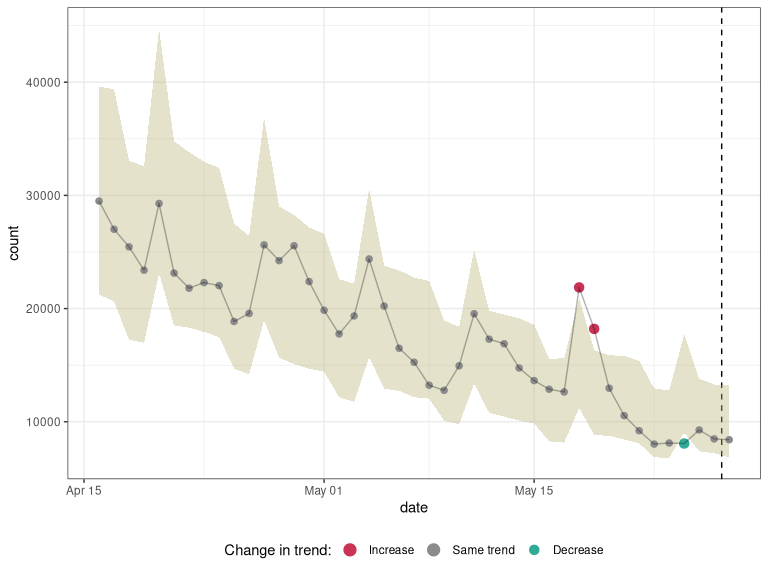
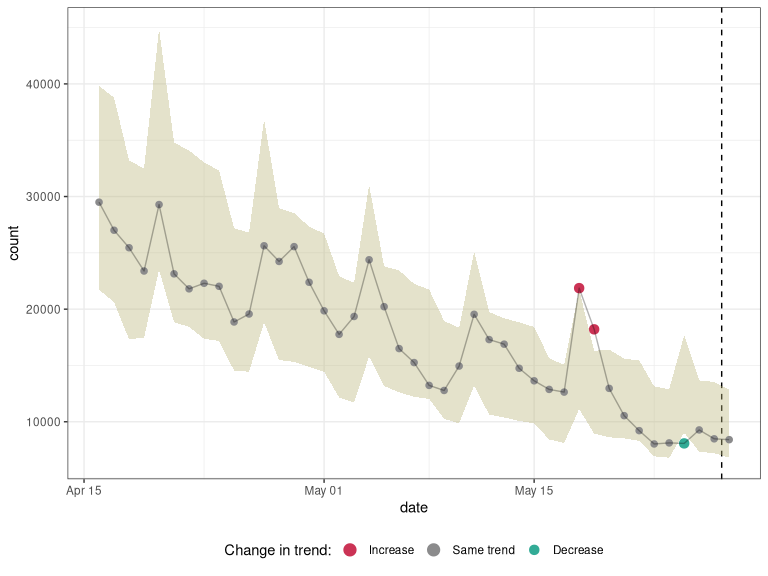
tidying and removing sanitize_models from asmodee

diff --git a/README.md b/README.md
@@ -163,8 +163,8 @@ res
 #>     }
 #>     result
 #> }
-#> <bytecode: 0x55ff9a9e76c8>
-#> <environment: 0x55ff9a108580>
+#> <bytecode: 0x5582cf070c08>
+#> <environment: 0x5582ce145ec0>
 #> 
 #> attr(,"class")
 #> [1] "trending_model_fit" "list"              
@@ -218,49 +218,49 @@ res
 #> 42 2020-05-27  70 rest_of_week  8486     TRUE 10038.393  9060.304 11122.07
 #> 43 2020-05-28  71 rest_of_week  8411    FALSE  9775.991  8795.879 10865.32
 #>    lower_pi upper_pi outlier classification
-#> 1     21256    39622   FALSE         normal
-#> 2     20620    39369   FALSE         normal
-#> 3     17250    33065   FALSE         normal
-#> 4     16983    32581   FALSE         normal
-#> 5     23108    44722   FALSE         normal
-#> 6     18512    34785   FALSE         normal
-#> 7     18318    33826   FALSE         normal
-#> 8     17932    32973   FALSE         normal
-#> 9     17485    32431   FALSE         normal
-#> 10    14700    27509   FALSE         normal
-#> 11    14183    26421   FALSE         normal
-#> 12    18966    36889   FALSE         normal
-#> 13    15668    29023   FALSE         normal
-#> 14    15094    28270   FALSE         normal
-#> 15    14683    27166   FALSE         normal
-#> 16    14417    26618   FALSE         normal
-#> 17    12166    22603   FALSE         normal
-#> 18    11753    22189   FALSE         normal
-#> 19    15732    30580   FALSE         normal
-#> 20    12921    23809   FALSE         normal
-#> 21    12729    23377   FALSE         normal
-#> 22    12170    22745   FALSE         normal
-#> 23    12045    22446   FALSE         normal
-#> 24    10094    18952   FALSE         normal
-#> 25     9776    18373   FALSE         normal
-#> 26    13358    25205   FALSE         normal
-#> 27    10806    19804   FALSE         normal
-#> 28    10454    19470   FALSE         normal
-#> 29    10098    19140   FALSE         normal
-#> 30     9841    18579   FALSE         normal
-#> 31     8271    15552   FALSE         normal
-#> 32     8162    15619   FALSE         normal
-#> 33    11217    20911    TRUE       increase
-#> 34     8836    16334    TRUE       increase
-#> 35     8756    15883   FALSE         normal
-#> 36     8428    15805   FALSE         normal
-#> 37     8089    15391   FALSE         normal
-#> 38     6856    12946   FALSE         normal
-#> 39     6821    12762   FALSE         normal
-#> 40     9047    17732    TRUE       decrease
-#> 41     7390    13814   FALSE         normal
-#> 42     7218    13293   FALSE         normal
-#> 43     6840    13268   FALSE         normal
+#> 1     21725    39814   FALSE         normal
+#> 2     20627    38783   FALSE         normal
+#> 3     17321    33200   FALSE         normal
+#> 4     17472    32491   FALSE         normal
+#> 5     23499    44897   FALSE         normal
+#> 6     18842    34785   FALSE         normal
+#> 7     18426    34087   FALSE         normal
+#> 8     17360    33025   FALSE         normal
+#> 9     17175    32304   FALSE         normal
+#> 10    14545    27186   FALSE         normal
+#> 11    14440    26789   FALSE         normal
+#> 12    18828    36864   FALSE         normal
+#> 13    15477    28955   FALSE         normal
+#> 14    15321    28535   FALSE         normal
+#> 15    14880    27325   FALSE         normal
+#> 16    14446    26715   FALSE         normal
+#> 17    12165    22933   FALSE         normal
+#> 18    11710    22322   FALSE         normal
+#> 19    15801    31024   FALSE         normal
+#> 20    13174    23802   FALSE         normal
+#> 21    12612    23438   FALSE         normal
+#> 22    12223    22238   FALSE         normal
+#> 23    12030    21743   FALSE         normal
+#> 24    10258    18949   FALSE         normal
+#> 25     9857    18337   FALSE         normal
+#> 26    13197    25098   FALSE         normal
+#> 27    10644    19747   FALSE         normal
+#> 28    10386    19185   FALSE         normal
+#> 29    10073    18835   FALSE         normal
+#> 30     9859    18415   FALSE         normal
+#> 31     8433    15649   FALSE         normal
+#> 32     8113    15039   FALSE         normal
+#> 33    11134    21716    TRUE       increase
+#> 34     8941    16305    TRUE       increase
+#> 35     8627    16406   FALSE         normal
+#> 36     8521    15605   FALSE         normal
+#> 37     8298    15447   FALSE         normal
+#> 38     6936    13142   FALSE         normal
+#> 39     6805    12889   FALSE         normal
+#> 40     9040    17674    TRUE       decrease
+#> 41     7341    13668   FALSE         normal
+#> 42     7213    13539   FALSE         normal
+#> 43     6814    12878   FALSE         normal
 #> 
 #> $date_index
 #> [1] "date"
